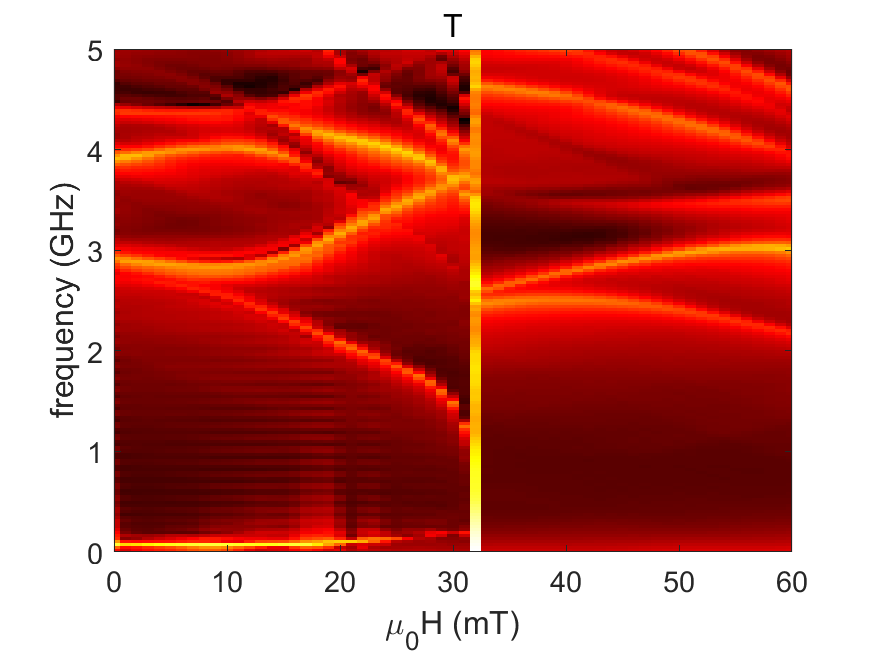
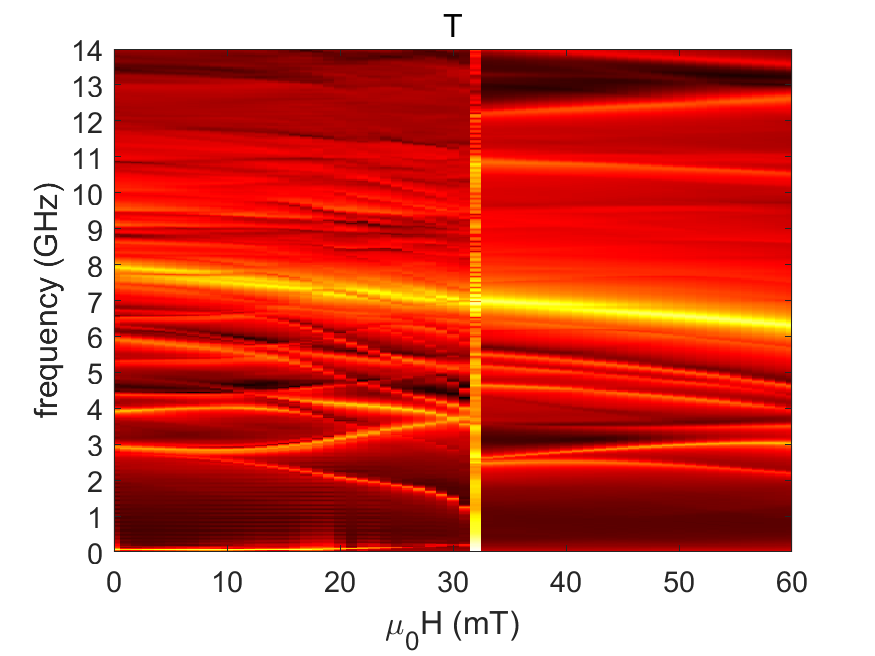
Improved Images

diff --git a/Scripts/Meeting_19_Jul_2023/FMR_HEATMAP_NEW.m b/Scripts/Meeting_19_Jul_2023/FMR_HEATMAP_NEW.m
@@ -24,7 +24,7 @@ regionname={'T','B',};
 %%HEATMAP
 map='hot';
 fonty=14;
-fmin=0;fmax=5;fres=1;
+fmin=0;fmax=14;fres=1;
 Xmin=0;Xmax=60;Xres=10;
 cmin=0;cmax=1;c_log=1;
 

diff --git a/Scripts/Meeting_19_Jul_2023/FMRHEATMAPUSER.m b/Scripts/Meeting_19_Jul_2023/FMRHEATMAPUSER.m
@@ -21,7 +21,7 @@ save_png=0;
 
 comp_sep=0;
 
-fmin=0;fmax=14;fres=1;
+fmin=0;fmax=15;fres=1;
 Xmin=0;Xmax=60;Xres=10;
 %Xmin=0;Xmax=700;Xres=40;
 cmin=0;cmax=1;
